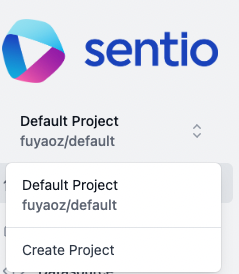
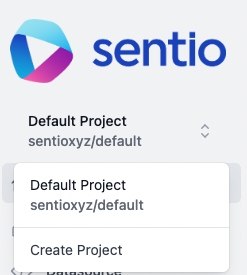
GitBook: [#15] initial examine metrics page

diff --git a/product-guides/making-dashboard.md b/product-guides/making-dashboard.md
@@ -1,13 +1,35 @@
 # 📊 Making Dashboard
 
-## Step 1 - Start journalling
+### Graphing <a href="#graphing" id="graphing"></a>
 
-Donec sed odio dui. Curabitur blandit tempus porttitor. Vivamus sagittis lacus vel augue laoreet rutrum faucibus dolor auctor. Donec ullamcorper nulla non metus auctor fringilla. Maecenas sed diam eget risus varius blandit sit amet non magna. Aenean lacinia bibendum nulla sed consectetur.
+Use the query editor to customize the graph displayed on the Metrics Explorer page.
 
-![](https://images.unsplash.com/photo-1522881451255-f59ad836fdfb?crop=entropy\&cs=tinysrgb\&fm=jpg\&ixid=MnwxOTcwMjR8MHwxfHNlYXJjaHw0fHx3cml0ZXxlbnwwfHx8fDE2NjA1ODc5Nzk\&ixlib=rb-1.2.1\&q=80)
+You can specify the time frame in the top right corner of the page. The default is **Past 3 Months**.
 
-## Step 2 - Create Post
+Metrics that are not reported in the last 24 hours do not appear in the query editor. You can add these metrics to your graphs manually by entering the metric name or full query.
 
-Praesent commodo cursus magna, vel scelerisque nisl consectetur et. Maecenas faucibus mollis interdum. Cras mattis consectetur purus sit amet fermentum. Fusce dapibus, tellus ac cursus commodo, tortor mauris condimentum nibh, ut fermentum massa justo sit amet risus. Donec ullamcorper nulla non metus auctor fringilla. Nullam quis risus eget urna mollis ornare vel eu leo. Aenean eu leo quam. Pellentesque ornare sem lacinia quam venenatis vestibulum.
+#### Scope <a href="#scope" id="scope"></a>
 
-![](https://images.unsplash.com/photo-1515378791036-0648a3ef77b2?crop=entropy\&cs=tinysrgb\&fm=jpg\&ixid=MnwxOTcwMjR8MHwxfHNlYXJjaHw2fHxwb3N0fGVufDB8fHx8MTY2MDU4ODAzMg\&ixlib=rb-1.2.1\&q=80)
+Define a filtering scope with the **from** text box by selecting or searching for tag values. For example, you can use the **from** text box to filter metric values from a specific address, contract or any other tags defined in the processor
+
+#### Space aggregation <a href="#space-aggregation" id="space-aggregation"></a>
+
+Define the [space aggregation](https://docs.datadoghq.com/metrics/introduction/#space-aggregation) used to combine the values of the series of a metric. For example, you can use it to sum up the withdrawal amount of different pool addresses.
+
+The possible options are:
+
+* Average of reported values (default)
+* Max of reported values
+* Min of reported values
+* Sum of reported values
+* Count of reported values
+
+#### Functions <a href="#functions" id="functions"></a>
+
+You can optionally add functions to your query using the function button. Not all functions are available for all metric types.
+
+#### Export <a href="#export" id="export"></a>
+
+Export your graph to a dashboard or notebook with the buttons at the top right. You can also use **Split Graph in Notebook** to view the data split into individual graphs by things like region, service, or environment.
+
+##

diff --git a/product-guides/examine-metrics.md b/product-guides/examine-metrics.md
@@ -1,2 +1,14 @@
 # 💨 Examine Metrics
 
+After the processor is successfully uploaded, you can first check the status of the processor on Datasource tab. Make sure the status is shown as processing. Also, take notice of the block number each chain is processed at.
+
+![](<../.gitbook/assets/image (3).png>)
+
+You can also examine the status of the collected metrics on the Metrics tab.&#x20;
+
+![](<../.gitbook/assets/image (1).png>)
+
+Clicking on each metric gives you a more detailed view of the metric, including tags and visualization of the metrics.
+
+&#x20;![](<../.gitbook/assets/image (5).png>)&#x20;
+

diff --git a/quickstart.md b/quickstart.md
@@ -12,7 +12,7 @@ Simply go to [https://app.sentio.xyz](https://app.sentio.xyz) and login/create y
 
 By default, Sentio will create an empty "default" project for you, if you want to have a default project ID, then click "Create Project" on the project selector.
 
-<figure><img src=".gitbook/assets/image (1).png" alt=""><figcaption></figcaption></figure>
+<figure><img src=".gitbook/assets/image (1) (1).png" alt=""><figcaption></figcaption></figure>
 
 ## Step 3: Create an API Key&#x20;
 
